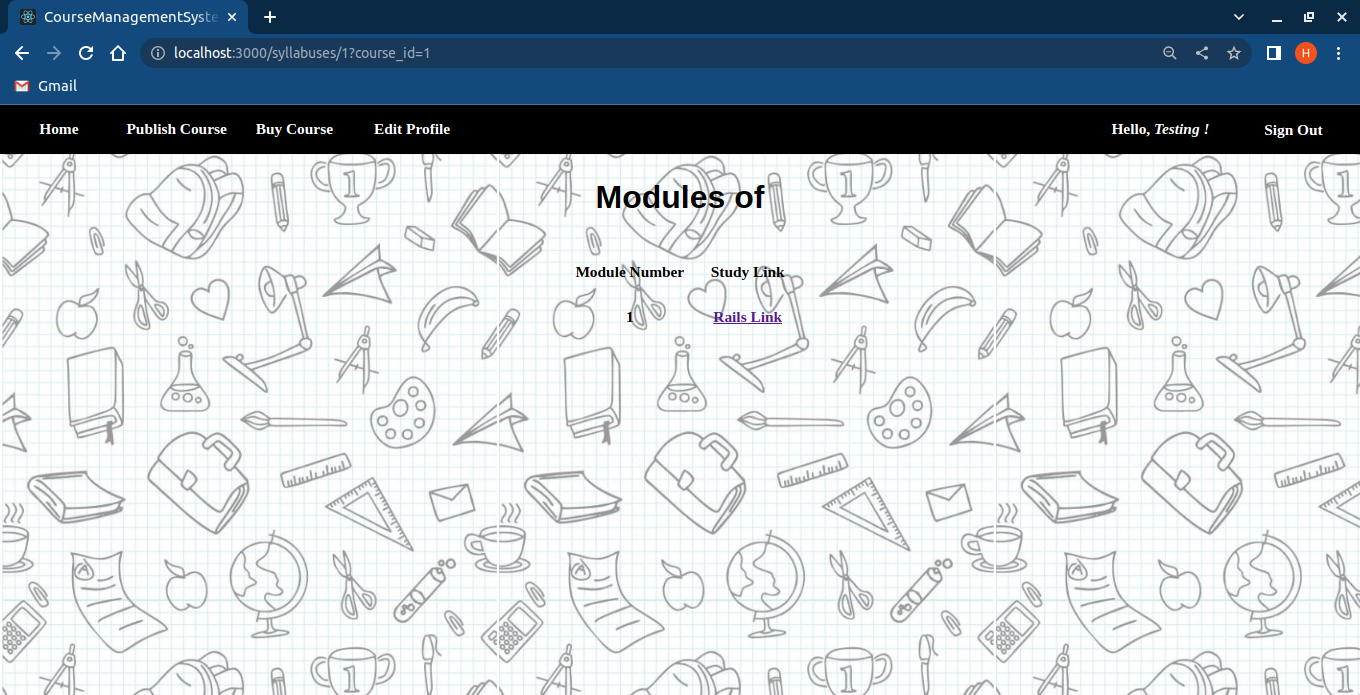
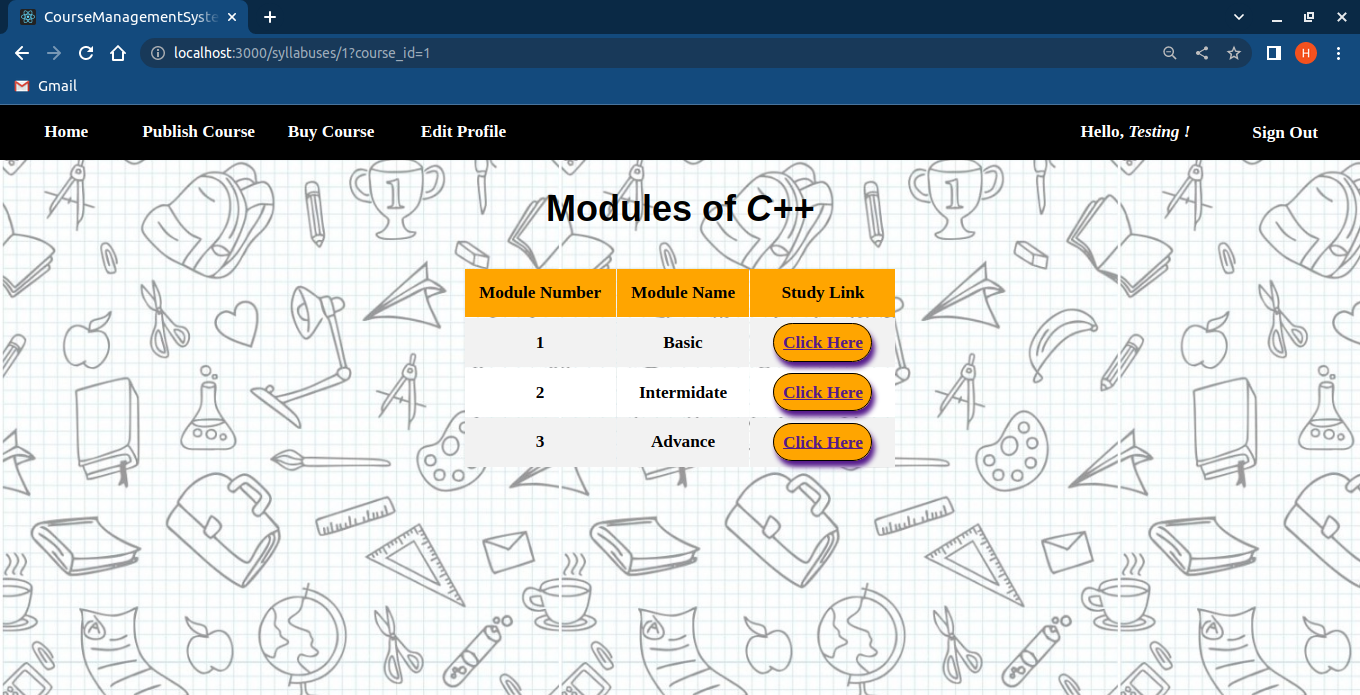
Syllabus Creation

Changed region(s): [[0.0, 0.1813, 1.0, 1.0]]

diff --git a/app/assets/stylesheets/syllabuses.scss b/app/assets/stylesheets/syllabuses.scss
@@ -1,3 +1,38 @@
 // Place all the styles related to the syllabuses controller here.
 // They will automatically be included in application.css.
 // You can use Sass (SCSS) here: https://sass-lang.com/
+
+.syllabus-module-table th {
+  background-color: orange;
+}
+
+.syllabus-module-table tr:nth-child(even) {
+  background-color: #f2f2f2;
+}
+
+.syllabus-module-table tr:nth-child(odd) {
+  background-color: #ffffff;
+}
+
+.button-link {
+  text-decoration: none;
+  text-align: center;
+  display: block;
+  color: black;
+  margin: 0.6rem;
+  padding: 0.5rem;
+  height: 2rem;
+  border: 2px solid black;
+  background-color: orange;
+  border-radius: 10rem;
+  font-size: 1.2rem;
+  font-weight: 800;
+  font-family: inherit;
+  box-shadow: 0.2rem 0.4rem 0.38rem;
+}
+
+.button-link:hover {
+  background-color: black;
+  color: white;
+  transition: 0.8s;
+}

diff --git a/app/assets/stylesheets/users.scss b/app/assets/stylesheets/users.scss
@@ -192,6 +192,10 @@ input * {
   background-color: #f2f2f2;
 }
 
+.course-bought-table tr:nth-child(odd) {
+  background-color: #ffffff;
+}
+
 .course-publish-table th {
   background-color: orange;
 }
@@ -200,8 +204,12 @@ input * {
   background-color: #f2f2f2;
 }
 
+.course-publish-table tr:nth-child(odd) {
+  background-color: #ffffff;
+}
+
 .form-table td {
   font-weight: 800;
   font-size: 1.65rem;
-  text-shadow: 0.2rem 0.2rem 0.2rem white;
+  // text-shadow: 0.2rem 0.2rem 0.2rem white;
 }

diff --git a/db/schema.rb b/db/schema.rb
@@ -10,7 +10,7 @@
 #
 # It's strongly recommended that you check this file into your version control system.
 
-ActiveRecord::Schema.define(version: 2023_05_30_060709) do
+ActiveRecord::Schema.define(version: 2023_06_01_054552) do
 
   create_table "certificates", force: :cascade do |t|
     t.integer "course_enrollment_id", null: false
@@ -73,10 +73,11 @@ ActiveRecord::Schema.define(version: 2023_05_30_060709) do
 
   create_table "syllabuses", primary_key: ["course_id", "module_no", "video_link"], force: :cascade do |t|
     t.integer "course_id", null: false
-    t.bigint "module_no", null: false
+    t.integer "module_no", null: false
     t.string "video_link", null: false
     t.datetime "created_at", precision: 6, null: false
     t.datetime "updated_at", precision: 6, null: false
+    t.string "module_name", null: false
     t.index ["course_id"], name: "index_syllabuses_on_course_id"
   end
 

diff --git a/app/controllers/syllabuses_controller.rb b/app/controllers/syllabuses_controller.rb
@@ -11,14 +11,14 @@ class SyllabusesController < ApplicationController
         if @syllabus.save
             flash[:notice] = "Syllabus for course_id #{@syllabus.course_id} is updated"
                 # redirect_to root_path
-            redirect_to @syllabus
+            redirect_to new_syllabus_path(:course_id => @syllabus.course_id)
         else 
             render 'new'
         end
     end
 
     def show 
-        # @Syllabus = Syllabus.find(params[:course_id])
+        @syllabus = Syllabus.find_by("course_id = ? ",params[:course_id])
     end
 
     private
@@ -28,7 +28,7 @@ class SyllabusesController < ApplicationController
     end
 
     def syllabus_params
-        params.require(:syllabus).permit(:course_id, :module_no, :video_link)
+        params.require(:syllabus).permit(:course_id, :module_no, :video_link, :module_name)
     end
 
 

diff --git a/db/migrate/20230601054552_add_column_in_syllabus.rb b/db/migrate/20230601054552_add_column_in_syllabus.rb
@@ -1,0 +1,9 @@
+class AddColumnInSyllabus < ActiveRecord::Migration[6.0]
+  def up
+    add_column :syllabuses, :module_name, :string, null: false
+  end
+  
+  def down
+    remove_column :syllabuses, :module_name
+  end
+end

diff --git a/README.md b/README.md
@@ -22,6 +22,14 @@
 
 <br>
 
+<br>
+
+### Dashboard:
+
+<img src="app/assets/images/ScreenShot/Dashboard.png">
+
+<br>
+
 ### Course Available:
 
 <img src="app/assets/images/ScreenShot/BuyCourse.png">
@@ -43,6 +51,14 @@
 ### Course Module:
 
 <img src="app/assets/images/ScreenShot/Syllabus.png">
+
+<br>
+
+<br>
+
+### Create Module:
+
+<img src="app/assets/images/ScreenShot/Module.png">
 
 <br>
 
